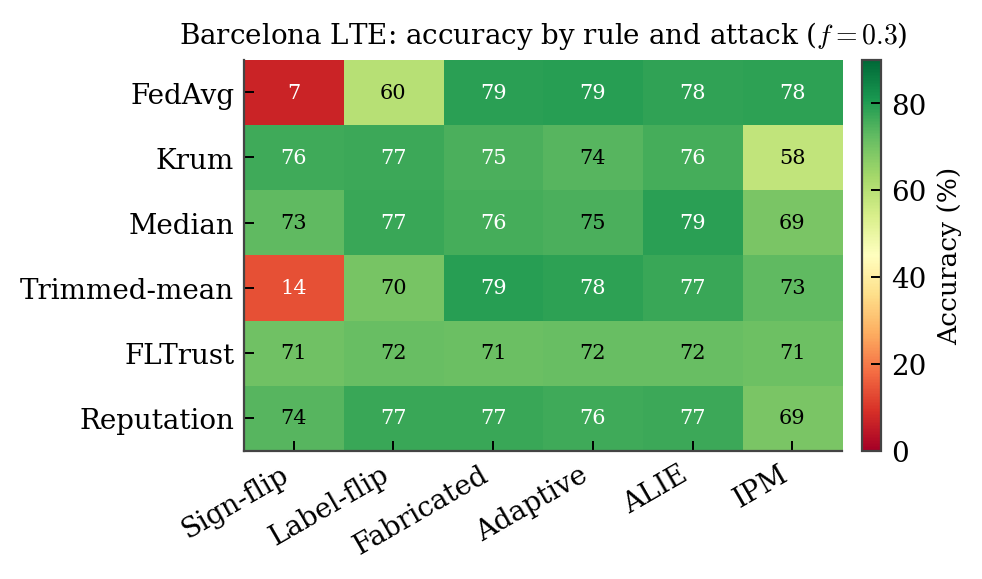
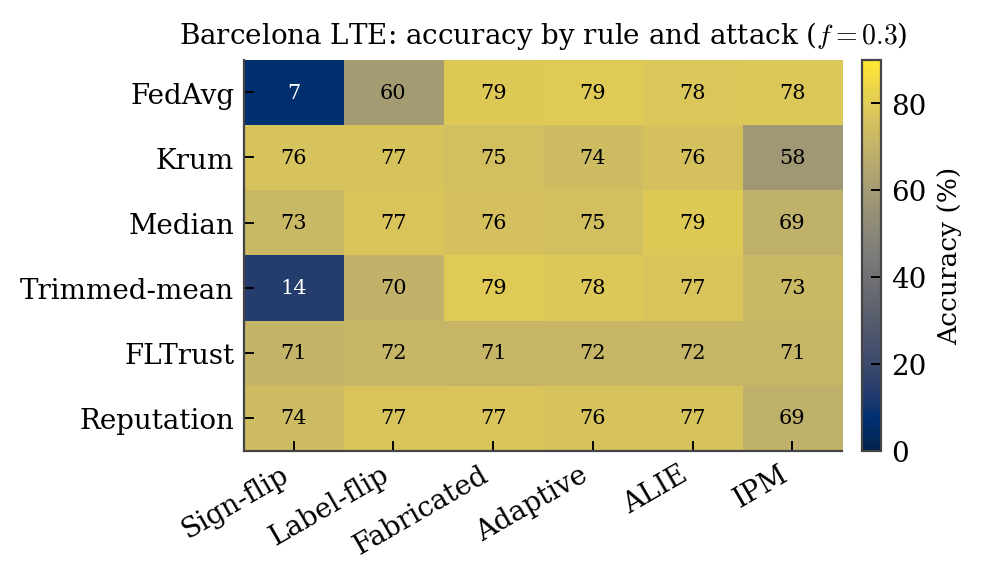
Professional figure palette (no red/green), cividis heatmaps, fix broken README convergence image
- Recolor all line figures with a colorblind-aware palette free of red and green
- Switch accuracy heatmaps from RdYlGn to cividis (professional, colorblind-safe)
- Anchor fig_*.png gitignore rule to repo root so assets/ images are tracked
- Add previously-ignored fig_convergence.png / fig_attack_convergence.png (README hero image was broken on GitHub)
- Update README figure captions to match new colors

diff --git a/scripts/make_figures.py b/scripts/make_figures.py
@@ -38,15 +38,56 @@ plt.rcParams.update({
 })
 
 ROOT = Path(__file__).resolve().parents[1]
+
+# Optional live no-attack ceiling: the same measured quantity the convergence
+# figures draw (final-round FedAvg accuracy with no attack). Imported lazily so
+# the figure script still runs when the datasets/training stack are unavailable.
+try:
+    import sys as _sys
+    _sys.path.insert(0, str(ROOT / "src"))
+    from oran_fed_robust.aggregation import build_aggregator
+    from oran_fed_robust.data.real_traffic import load_real_federated_dataset
+    from oran_fed_robust.data.real_5g import load_5g_federated_dataset
+    from oran_fed_robust.data.real_lumos5g import load_lumos5g_federated_dataset
+    from oran_fed_robust.training import FederatedTrainer
+    _CEIL_OK = True
+except Exception:  # pragma: no cover - datasets not present
+    _CEIL_OK = False
+
+_CEIL_CFG = {
+    "Barcelona LTE": (lambda s: load_real_federated_dataset(n_clients=50, seed=s), 8, 200),
+    "Raca 5G": (lambda s: load_5g_federated_dataset(n_clients=50, seed=s), 7, 150),
+    "Lumos5G mmWave": (lambda s: load_lumos5g_federated_dataset(n_clients=50, seed=s), 8, 150),
+}
+
+
+def _no_attack_ceiling(title):
+    """Measured no-attack FedAvg final accuracy for a dataset (identical to the
+    ceiling drawn in the convergence figures); None if it cannot be measured."""
+    if not _CEIL_OK or title not in _CEIL_CFG:
+        return None
+    try:
+        loader, nfeat, rounds = _CEIL_CFG[title]
+        clients, test, root = loader(0)
+        agg = build_aggregator("fedavg", trim_ratio=0.1, beta=0.8)
+        tr = FederatedTrainer(clients, test, root, agg, n_features=nfeat, n_classes=5,
+                              attack_name="none", compromise_fraction=0.0, attack_scale=0.5,
+                              participants_per_round=20, local_epochs=2, lr=0.05,
+                              batch_size=64, seed=0)
+        return [r.accuracy * 100 for r in tr.fit(rounds)][-1]
+    except Exception:  # pragma: no cover
+        return None
+
+
 AGGS = ["fedavg", "krum", "median", "trimmed_mean", "fltrust", "reputation"]
 LABEL = {"fedavg": "FedAvg", "krum": "Krum", "median": "Median",
          "trimmed_mean": "Trimmed-mean", "fltrust": "FLTrust", "reputation": "Reputation"}
 ATTACKS = ["sign_flip", "label_flip", "fabricated", "adaptive", "alie", "ipm"]
 ATT_LABEL = {"sign_flip": "Sign-flip", "label_flip": "Label-flip", "fabricated": "Fabricated",
              "adaptive": "Adaptive", "alie": "ALIE", "ipm": "IPM"}
-# Colorblind-safe palette.
-COLOR = {"fedavg": "#111111", "krum": "#D55E00", "median": "#0072B2",
-         "trimmed_mean": "#117733", "fltrust": "#8C8C8C", "reputation": "#AA4499"}
+# Professional colorblind-aware palette (no red, no green).
+COLOR = {"fedavg": "#000000", "krum": "#E69F00", "median": "#0072B2",
+         "trimmed_mean": "#8C564B", "fltrust": "#7F7F7F", "reputation": "#9467BD"}
 MARK = {"fedavg": "o", "krum": "^", "median": "s", "trimmed_mean": "D",
         "fltrust": "v", "reputation": "P"}
 
@@ -83,18 +124,22 @@ def ipm_panels(datasets):
             ys = np.array([d.get((f, "ipm", agg), (np.nan, 0))[0] for f in fracs])
             es = np.array([d.get((f, "ipm", agg), (np.nan, 0))[1] for f in fracs])
             _plot(ax, x, ys, es, agg)
+        ref = _no_attack_ceiling(title)
+        if ref is not None:
+            ax.axhline(ref, ls="--", lw=1.1, color="black", label="No-attack ceiling")
         ax.set_title(title, pad=6)
         ax.set_xlabel("Compromise fraction $f$")
         ax.set_xlim(0.07, 0.33); ax.set_xticks(x)
         _style(ax)
     axes[0].set_ylabel("Accuracy (%)")
     handles, labels = axes[0].get_legend_handles_labels()
-    fig.legend(handles, labels, ncol=6, loc="lower center",
-               bbox_to_anchor=(0.5, -0.10), frameon=False, columnspacing=1.4,
+    fig.legend(handles, labels, ncol=4, loc="lower center",
+               bbox_to_anchor=(0.5, -0.13), frameon=False, columnspacing=1.4,
                handletextpad=0.5)
-    fig.tight_layout(rect=(0, 0.06, 1, 1))
+    fig.tight_layout()
     out = ROOT.parent / "fig_ipm_panels.pdf"
     fig.savefig(out, bbox_inches="tight")
+    fig.savefig(ROOT / "assets" / "fig_ipm_panels.png", bbox_inches="tight", dpi=200)
     plt.close(fig)
     print("wrote", out)
 
@@ -103,14 +148,14 @@ def heatmap(d, title, stem):
     mat = np.array([[d.get(("0.3", a, agg), (np.nan, 0))[0] for a in ATTACKS]
                     for agg in AGGS])
     fig, ax = plt.subplots(figsize=(5.0, 3.0))
-    im = ax.imshow(mat, cmap="RdYlGn", vmin=0, vmax=90, aspect="auto")
+    im = ax.imshow(mat, cmap="cividis", vmin=0, vmax=90, aspect="auto")
     ax.set_xticks(range(len(ATTACKS)), [ATT_LABEL[a] for a in ATTACKS], rotation=30, ha="right")
     ax.set_yticks(range(len(AGGS)), [LABEL[a] for a in AGGS])
     for i in range(len(AGGS)):
         for j in range(len(ATTACKS)):
             v = mat[i, j]
             ax.text(j, i, f"{v:.0f}", ha="center", va="center",
-                    color="black" if 25 < v < 75 else "white", fontsize=7.5)
+                    color="white" if v < 42 else "black", fontsize=7.5)
     cbar = fig.colorbar(im, ax=ax, fraction=0.046, pad=0.03)
     cbar.set_label("Accuracy (%)")
     ax.set_title(title)
@@ -157,14 +202,14 @@ def heatmap_row(datasets, stem):
     im = None
     for ax, (title, d) in zip(axes, datasets):
         mat = np.array([[d.get(("0.3", a, agg), (np.nan, 0))[0] for a in ATTACKS] for agg in AGGS])
-        im = ax.imshow(mat, cmap="RdYlGn", vmin=0, vmax=90, aspect="auto")
+        im = ax.imshow(mat, cmap="cividis", vmin=0, vmax=90, aspect="auto")
         ax.set_xticks(range(len(ATTACKS)), [ATT_LABEL[a] for a in ATTACKS], rotation=40, ha="right", fontsize=7)
         ax.set_yticks(range(len(AGGS)), [LABEL[a] for a in AGGS] if ax is axes[0] else [""] * len(AGGS), fontsize=7.5)
         for i in range(len(AGGS)):
             for j in range(len(ATTACKS)):
                 v = mat[i, j]
                 ax.text(j, i, f"{v:.0f}", ha="center", va="center",
-                        color="black" if 25 < v < 75 else "white", fontsize=6.5)
+                        color="white" if v < 42 else "black", fontsize=6.5)
         ax.set_title(title, fontsize=9)
     cbar = fig.colorbar(im, ax=axes, fraction=0.025, pad=0.02)
     cbar.set_label("Accuracy (%)")

diff --git a/scripts/make_convergence.py b/scripts/make_convergence.py
@@ -32,8 +32,8 @@ ROOT = Path(__file__).resolve().parents[1]
 AGGS = ["fedavg", "krum", "median", "trimmed_mean", "fltrust", "reputation"]
 LABEL = {"fedavg": "FedAvg", "krum": "Krum", "median": "Median",
          "trimmed_mean": "Trimmed-mean", "fltrust": "FLTrust", "reputation": "Reputation"}
-COLOR = {"fedavg": "#111111", "krum": "#D55E00", "median": "#0072B2",
-         "trimmed_mean": "#117733", "fltrust": "#8C8C8C", "reputation": "#AA4499"}
+COLOR = {"fedavg": "#000000", "krum": "#E69F00", "median": "#0072B2",
+         "trimmed_mean": "#8C564B", "fltrust": "#7F7F7F", "reputation": "#9467BD"}
 DATASETS = [
     ("Barcelona LTE", lambda s: load_real_federated_dataset(n_clients=50, seed=s), 8, 200),
     ("Raca 5G", lambda s: load_5g_federated_dataset(n_clients=50, seed=s), 7, 150),

diff --git a/README.md b/README.md
@@ -19,12 +19,12 @@ A reproducible benchmark that evaluates six federated-learning aggregation rules
 <p align="center">
   <img src="assets/fig_convergence.png" width="95%" alt="Per-round accuracy under IPM across three real datasets"/>
 </p>
-<p align="center"><em>Per-round training accuracy under the IPM attack on three real networks. Krum (orange) and median (blue) degrade over rounds as the attack accumulates, drifting below the no-attack ceiling, while FedAvg and trimmed-mean hold.</em></p>
+<p align="center"><em>Per-round training accuracy under the IPM attack on three real networks. Krum (amber) and median (blue) degrade over rounds as the attack accumulates, drifting below the no-attack ceiling, while FedAvg and trimmed-mean hold.</em></p>
 
 <p align="center">
   <img src="assets/fig_heatmap_row.png" width="100%" alt="Accuracy heatmaps by rule and attack across three real datasets"/>
 </p>
-<p align="center"><em>The same failure pattern recurs on all three real networks: FedAvg and trimmed-mean fail under sign-flipping, Krum fails under IPM (red / pale cells).</em></p>
+<p align="center"><em>The same failure pattern recurs on all three real networks: FedAvg and trimmed-mean fail under sign-flipping, Krum fails under IPM (dark cells = low accuracy).</em></p>
 
 ---
 